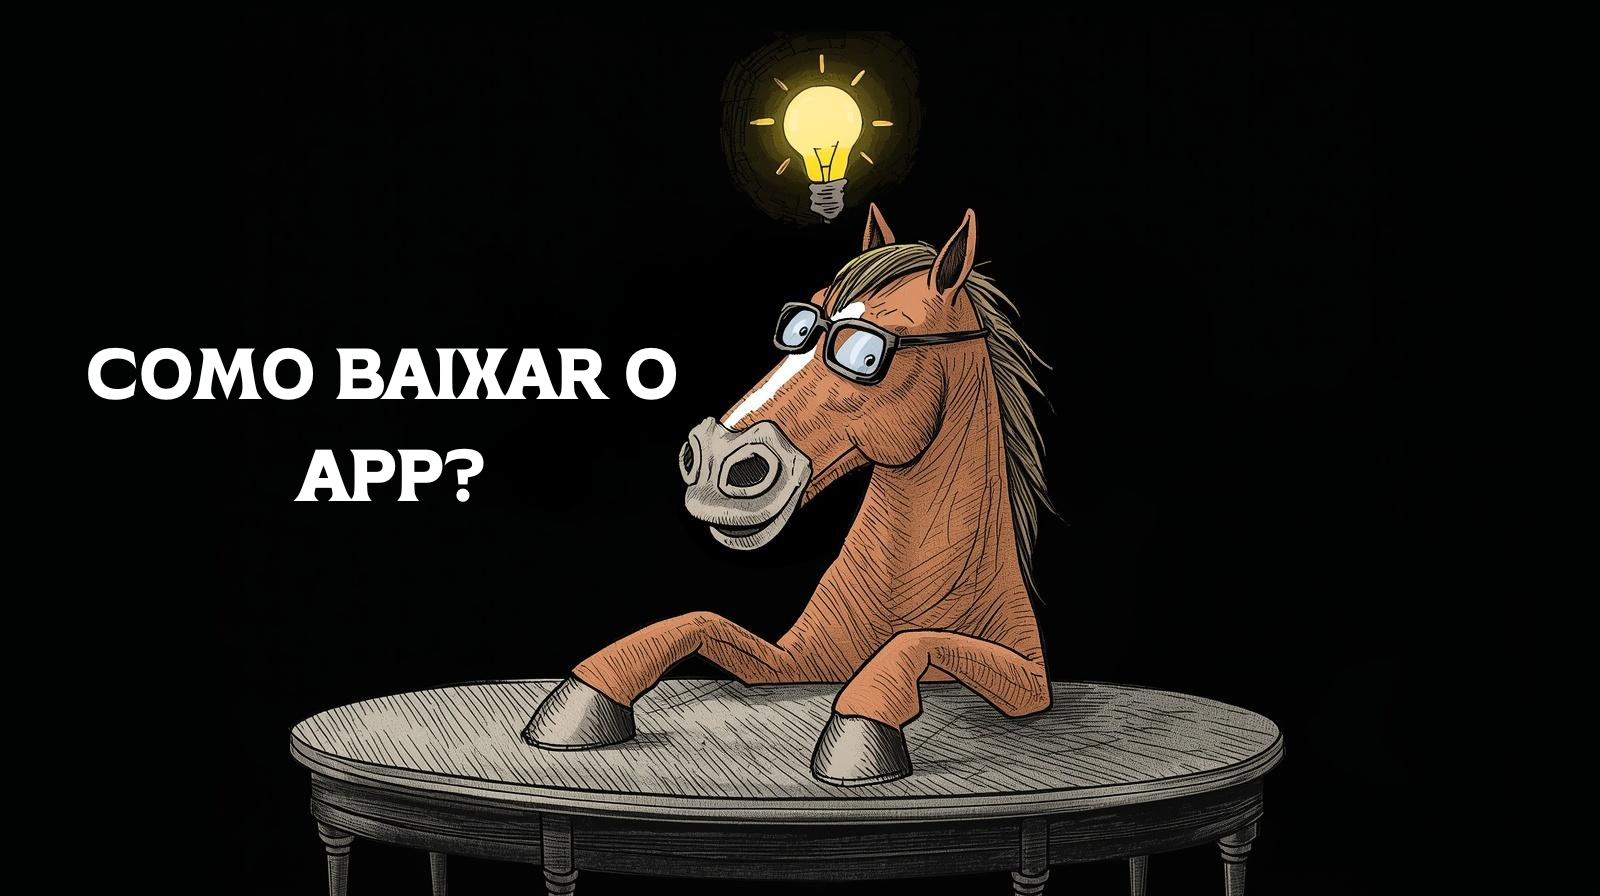
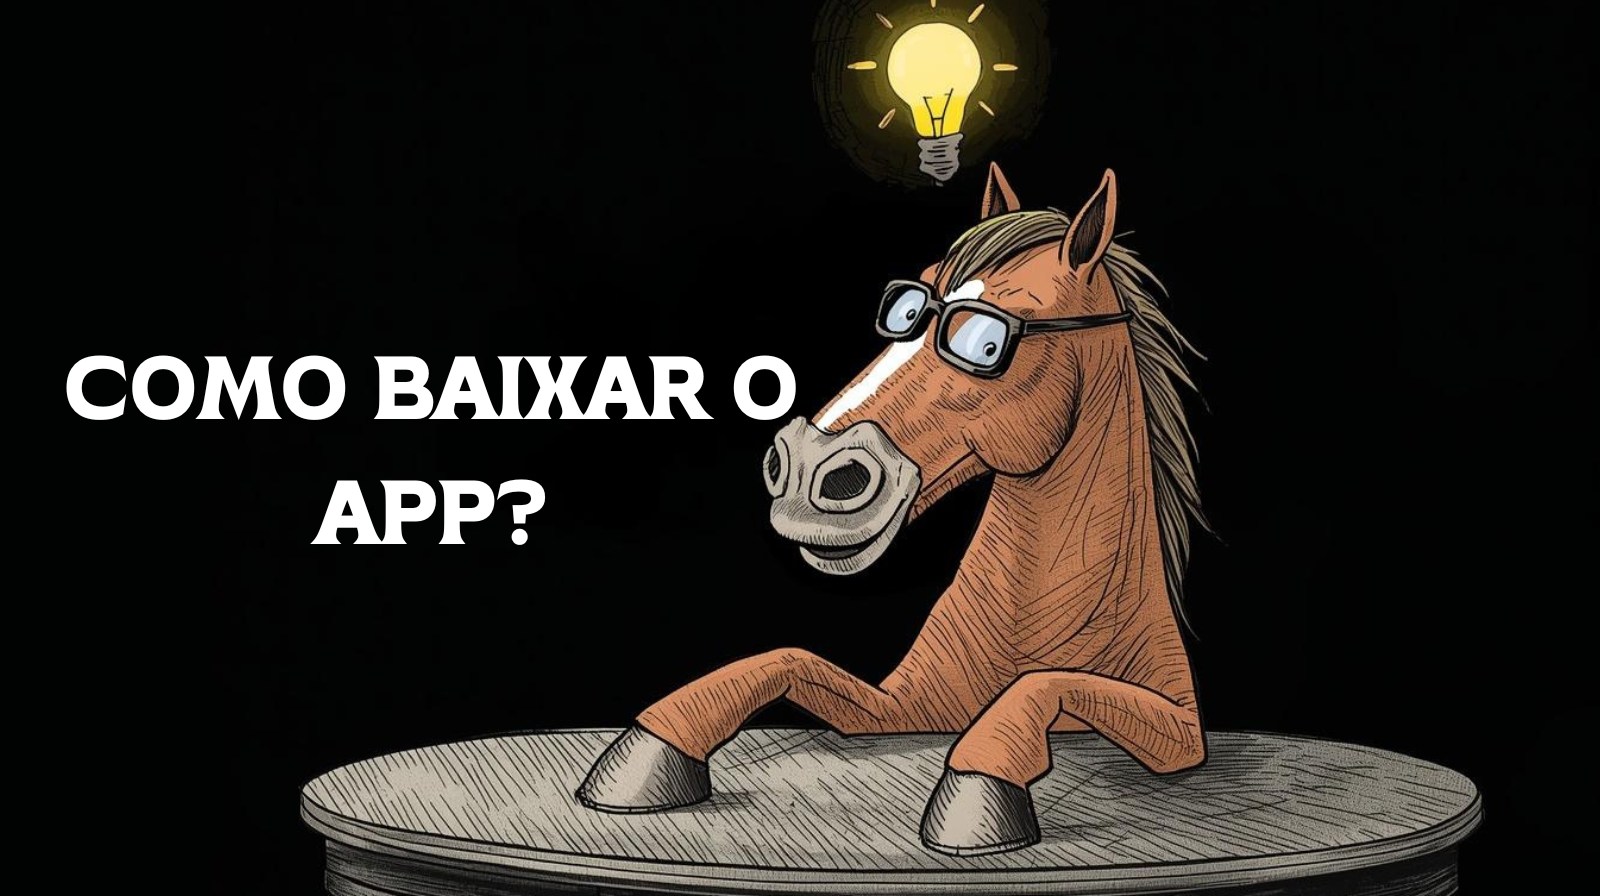
altera

diff --git a/index.html b/index.html
@@ -4,7 +4,8 @@
     <meta charset="UTF-8">
     <meta name="viewport" content="width=device-width, initial-scale=1.0">
     <title>Painel de Cuidados Equinos</title>
-    <style>
+<link>rel="manifest" href="manifest.json">
+<style>
         /* Estilo para centralização total e estética Dark Profissional */
         body {
             background-color: #000;
@@ -56,8 +57,7 @@
         }
     </style>
 </head>
-<body>
-<link>rel="manifest" href="manifest.json">    
+<body>    
     
 <div class="container">
  <a href="comobaixaroapp.html" class="icon-link">

diff --git a/manejoreprodutivo.html b/manejoreprodutivo.html
@@ -4,7 +4,8 @@
     <meta charset="UTF-8">
     <meta name="viewport" content="width=device-width, initial-scale=1.0">
     <title>SOS Equisaúde - Manejo Reprodutivo e Cuidados com o Potro</title>
-    <style>
+   <link>rel="manifest" href="manifest.json">
+   <style>
         /* ESTILO PREMIUM DARK SOS EQUISAÚDE */
         * { margin: 0; padding: 0; box-sizing: border-box; }
         body { font-family: 'Segoe UI', Arial, sans-serif; background-color: #000; color: #fff; line-height: 1.6; padding: 20px; }

diff --git a/cuidadosgeraiscomcavalo.html b/cuidadosgeraiscomcavalo.html
@@ -6,7 +6,8 @@
     <title>Guia de Manejo Equino - SOS Equisaúde</title>
     <link href="https://cdn.jsdelivr.net/npm/bootstrap@5.3.0/dist/css/bootstrap.min.css" rel="stylesheet">
     <link href="https://fonts.googleapis.com/css2?family=Roboto:wght@300;400;700&display=swap" rel="stylesheet">
-    <style>
+   <link>rel="manifest" href="manifest.json">
+   <style>
         body {
             background-color: #000000;
             color: #ffffff;

diff --git a/antesdecomprar.html b/antesdecomprar.html
@@ -9,7 +9,8 @@
     <title>Informações Iniciais - SOS Equisaúde</title>
     <link href="https://cdn.jsdelivr.net/npm/bootstrap@5.3.0/dist/css/bootstrap.min.css" rel="stylesheet">
     <link href="https://fonts.googleapis.com/css2?family=Roboto:wght@300;400;700&display=swap" rel="stylesheet">
-    <style>
+ <link>rel="manifest" href="manifest.json"> 
+  <style>
         body {
             background-color: #000000;
             color: #ffffff;

diff --git a/curiosidades.html b/curiosidades.html
@@ -6,7 +6,8 @@
     <title>Curiosidades Equinas - SOS Equisaúde</title>
     <link href="https://cdn.jsdelivr.net/npm/bootstrap@5.3.0/dist/css/bootstrap.min.css" rel="stylesheet">
     <link href="https://fonts.googleapis.com/css2?family=Roboto:wght@300;400;700&display=swap" rel="stylesheet">
-    <style>
+   <link>rel="manifest" href="manifest.json">
+   <style>
         body {
             background-color: #000000;
             color: #ffffff;

diff --git a/primeirossocorros.html b/primeirossocorros.html
@@ -4,7 +4,8 @@
     <meta charset="UTF-8">
     <meta name="viewport" content="width=device-width, initial-scale=1.0">
     <title>Primeiros Socorros Equinos - SOS Equisaúde</title>
-    <style>
+   <link>rel="manifest" href="manifest.json">
+   <style>
         * { margin: 0; padding: 0; box-sizing: border-box; }
         
         body { 

diff --git a/apoiadores.html b/apoiadores.html
@@ -4,7 +4,8 @@
     <meta charset="UTF-8">
     <meta name="viewport" content="width=device-width, initial-scale=1.0">
     <title>Apoiadores - Projeto Equinos</title>
-    <style>
+<link>rel="manifest" href="manifest.json">
+<style>
         /* RESET TOTAL PARA EVITAR ERROS DE RENDERIZAÇÃO */
         * {
             margin: 0;

diff --git a/doencasemcavalos.html b/doencasemcavalos.html
@@ -4,7 +4,8 @@
     <meta charset="UTF-8">
     <meta name="viewport" content="width=device-width, initial-scale=1.0">
     <title>Doenças em Cavalos - Guia de Notificação</title>
-    <style>
+   <link>rel="manifest" href="manifest.json">
+   <style>
         /* RESET E FUNDO PRETO */
         * {
             margin: 0;

diff --git a/odicionariodoresponsavel.html b/odicionariodoresponsavel.html
@@ -3,7 +3,8 @@
 <head>
     <meta charset="UTF-8">
     <meta name="viewport" content="width=device-width, initial-scale=1.0">
-    <style>
+   <link>rel="manifest" href="manifest.json">
+   <style>
         /* DESIGN PREMIUM SOS EQUISAÚDE */
         * { margin: 0; padding: 0; box-sizing: border-box; }
         body {

diff --git a/manejonutricional.html b/manejonutricional.html
@@ -6,7 +6,7 @@
     <meta name="viewport" content="width=device-width, initial-scale=1.0">
     <title>SOS Equisaúde - Manejo Nutricional</title>
     <link rel="stylesheet" href="css/manejonutri.css">
- 
+ <link>rel="manifest" href="manifest.json">
     <style>
         * {
  

diff --git a/bemestar.html b/bemestar.html
@@ -4,6 +4,7 @@
 <meta charset="UTF-8">
 <meta name="viewport" content="width=device-width, initial-scale=1.0">
 <link rel="stylesheet" href="style.css">
+<link>rel="manifest" href="manifest.json">
 <title>Protocolo de Cuidados Veterinários Equinos</title>
 <style>
 body {

diff --git a/limpezaehigieneequina.html b/limpezaehigieneequina.html
@@ -2,7 +2,7 @@
 <html lang="pt-BR">
  
 <head>
-
+<link>rel="manifest" href="manifest.json">
 <style>
     .black-section {
         background-color: #000000 !important;
